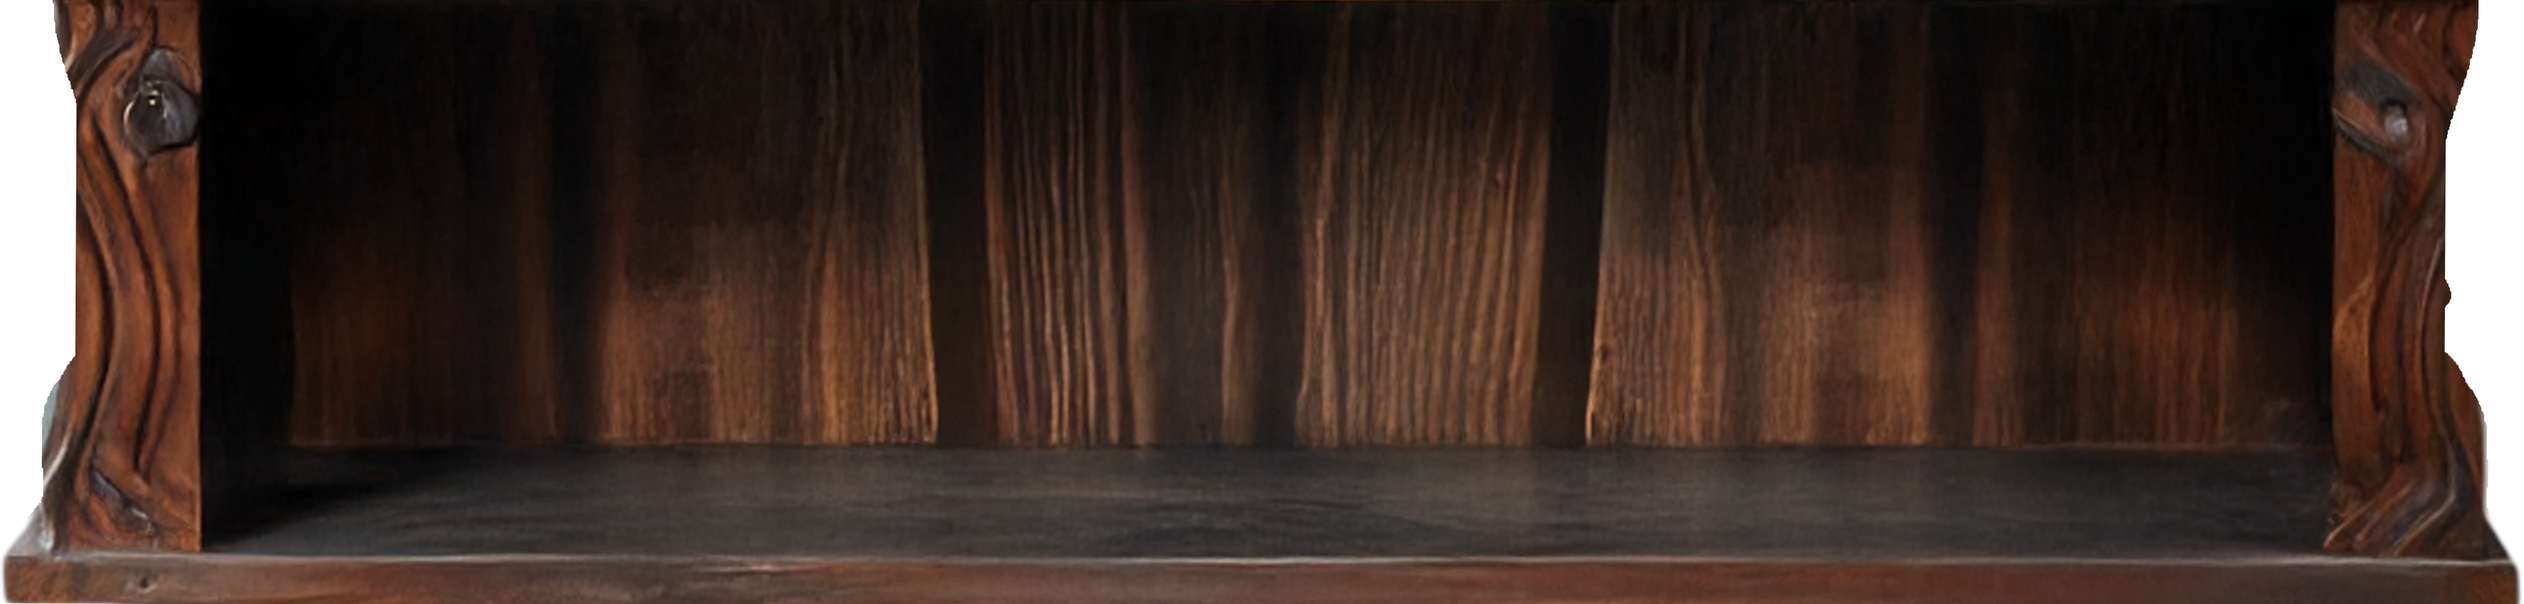
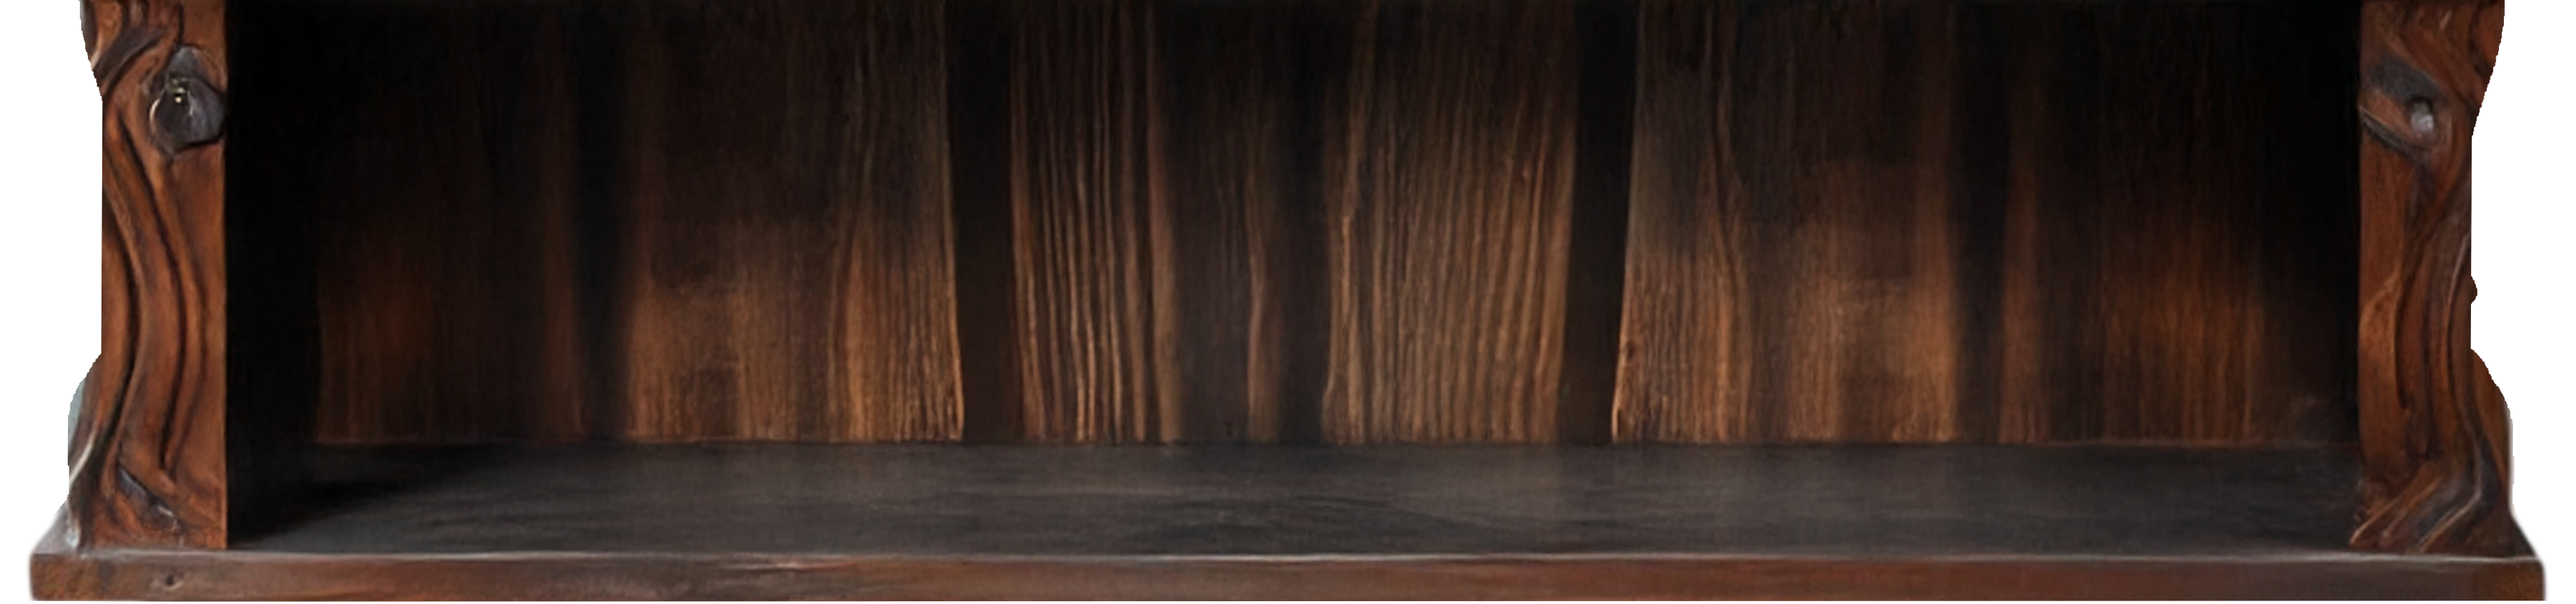
edit width png

diff --git a/style.css b/style.css
@@ -16,13 +16,12 @@ body {
 header {
     background-image: url(shelf-top.png);
     background-repeat: no-repeat;
-    background-size: cover;
+    background-size: contain;
     background-position: top;
     display: flex;
     flex-direction: column;
     align-items: center;
     width: 100%;
-    height: 100%    ;
 }
 
 .title {
@@ -91,7 +90,7 @@ main {
 footer {
     background-image: url(shelf-bottom.png);
     background-repeat: no-repeat;
-    background-size: cover;
+    background-size: contain;
     background-position: top;
     display: flex;
     flex-direction: column;
